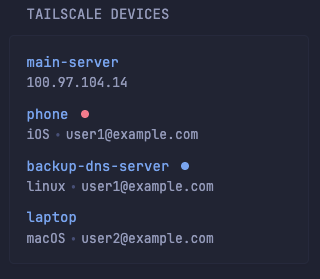
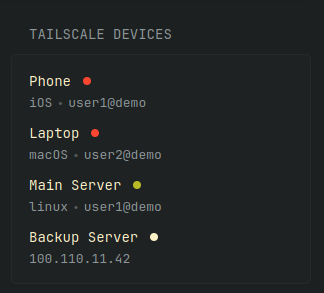
feat: add online-indicator to tailscale devices

diff --git a/widgets/tailscale-devices-by-not-first/README.md b/widgets/tailscale-devices-by-not-first/README.md
@@ -60,6 +60,16 @@
         vertical-align: middle;
       }
 
+      .online-indicator {
+        width: 8px;
+        height: 8px;
+        border-radius: 50%;
+        background-color: var(--color-positive);
+        display: inline-block;
+        margin-left: 4px;
+        vertical-align: middle;
+      }
+
       .device-name-container {
         display: flex;
         align-items: center;
@@ -90,6 +100,8 @@
               {{ $lastSeenTimezoned := $lastSeen.In now.Location }}
               <span class="offline-indicator" data-popover-type="text"
                 data-popover-text="Offline - Last seen {{ $lastSeenTimezoned.Format " Jan 2 3:04pm" }}"></span>
+              {{ else }}
+              <span class="online-indicator" data-popover-type="text" data-popover-text="Online"></span>
               {{ end }}
 
             </div>
